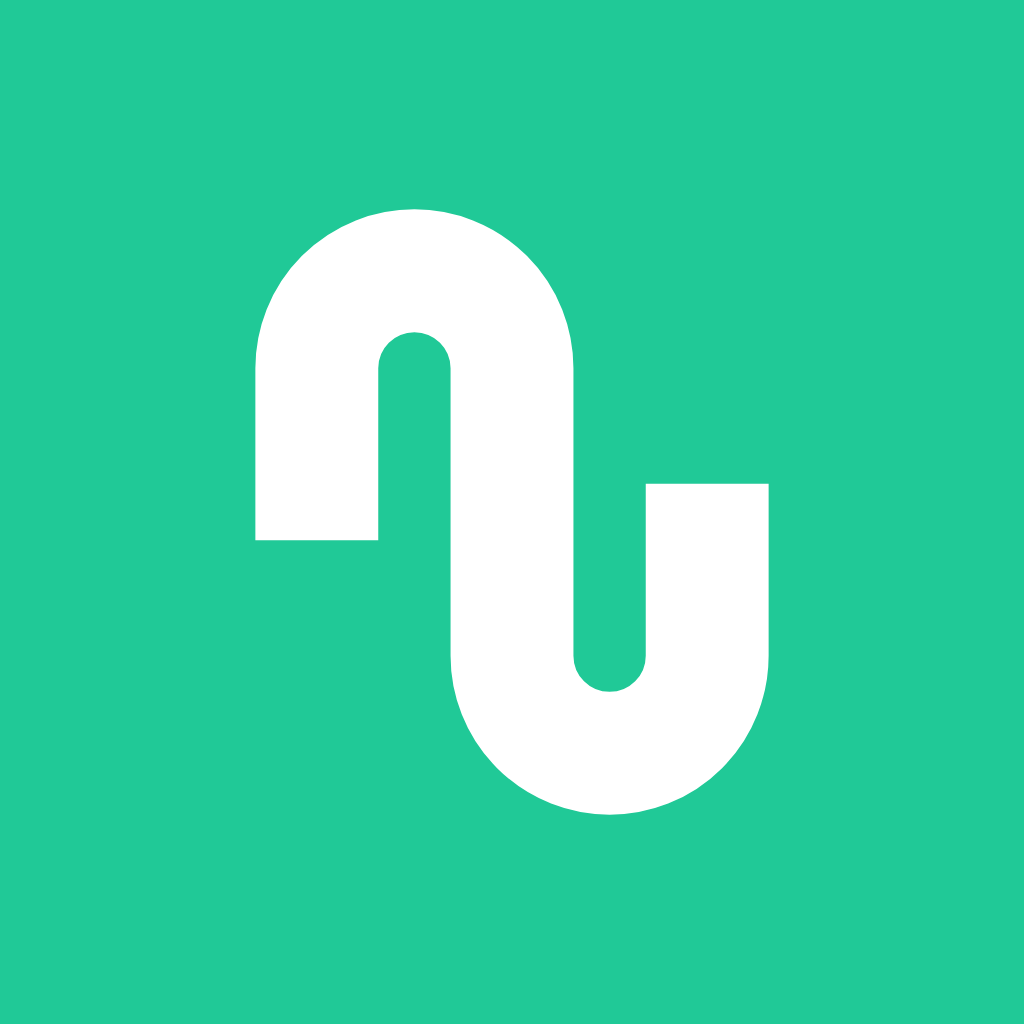
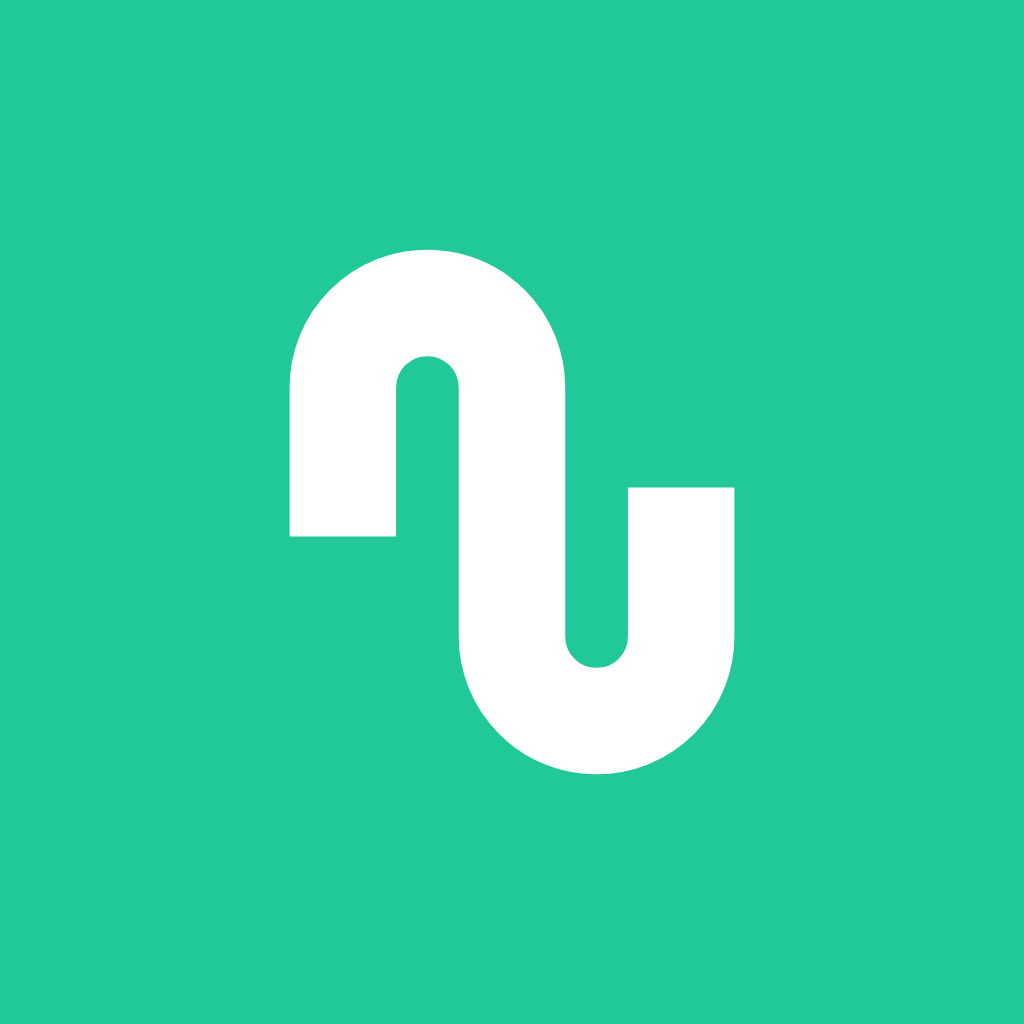
feat(web, mobile): a cleaner sign-in, and Google's button like "Sign in"
The sign-in drops "Your private Zankup instance", the "Private instance ·
one user" footer and, in the app, the panel text and the fingerprint
note. "Continue with Google" becomes the same button as "Sign in", with
Google's G in one colour (a thick ring and its bar, from packages/core)
and the label in white; on the web it no longer overflows the column.
The Android launcher mark is a little smaller.

Changed region(s): [[0.25, 0.1875, 0.75, 0.8125]]

diff --git a/apps/web/src/routes/SignIn.tsx b/apps/web/src/routes/SignIn.tsx
@@ -1,4 +1,4 @@
-import { meQuery, providersQuery, queryKeys, setupStatusQuery, type Me } from '@zankup/core';
+import { GOOGLE_G, meQuery, providersQuery, queryKeys, setupStatusQuery, type Me } from '@zankup/core';
 import { useQuery, useQueryClient } from '@tanstack/react-query';
 import { useState, type FormEvent } from 'react';
 import { Link, Navigate, useNavigate, useSearchParams } from 'react-router';
@@ -62,7 +62,6 @@ export function SignIn() {
               onSignedIn={signedIn}
             />
           )}
-          <div className="lfoot">{t('signIn.footer')}</div>
         </div>
       </section>
     </div>
@@ -230,23 +229,9 @@ function GoogleButton() {
       className="button block google"
       href={`/api/auth/google/start?mode=login&next=${encodeURIComponent(next)}`}
     >
-      <svg viewBox="0 0 48 48" width="18" height="18" aria-hidden="true">
-        <path
-          fill="#EA4335"
-          d="M24 9.5c3.54 0 6.71 1.22 9.21 3.6l6.85-6.85C35.9 2.38 30.47 0 24 0 14.62 0 6.51 5.38 2.56 13.22l7.98 6.19C12.43 13.72 17.74 9.5 24 9.5z"
-        />
-        <path
-          fill="#4285F4"
-          d="M46.98 24.55c0-1.57-.15-3.09-.38-4.55H24v9.02h12.94c-.58 2.96-2.26 5.48-4.78 7.18l7.73 6c4.51-4.18 7.09-10.36 7.09-17.65z"
-        />
-        <path
-          fill="#FBBC05"
-          d="M10.53 28.59c-.48-1.45-.76-2.99-.76-4.59s.27-3.14.76-4.59l-7.98-6.19C.92 16.46 0 20.12 0 24c0 3.88.92 7.54 2.56 10.78l7.97-6.19z"
-        />
-        <path
-          fill="#34A853"
-          d="M24 48c6.48 0 11.93-2.13 15.89-5.81l-7.73-6c-2.15 1.45-4.92 2.3-8.16 2.3-6.26 0-11.57-4.22-13.47-9.91l-7.98 6.19C6.51 42.62 14.62 48 24 48z"
-        />
+      <svg viewBox={`0 0 ${GOOGLE_G.size} ${GOOGLE_G.size}`} width="18" height="18" aria-hidden="true">
+        <path d={GOOGLE_G.ring.d} fill="none" stroke="currentColor" strokeWidth={GOOGLE_G.ring.strokeWidth} />
+        <path d={GOOGLE_G.bar.d} fill="currentColor" />
       </svg>
       {t('signIn.google')}
     </a>

diff --git a/apps/mobile/src/SignIn.tsx b/apps/mobile/src/SignIn.tsx
@@ -8,7 +8,7 @@ import { createApiClient } from '@zankup/core';
 import { useEffect, useState, type ReactNode } from 'react';
 import { KeyboardAvoidingView, Pressable, Text, View } from 'react-native';
 
-import { Icon } from './Icon';
+import { GoogleIcon, Icon } from './Icon';
 import { t } from './i18n';
 import {
   checkInstance,
@@ -102,7 +102,6 @@ export function SignIn({ onSignedIn }: { onSignedIn: (session: Session) => void 
         <View style={{ gap: 16, paddingTop: 24 }}>
           <Brand />
           {card}
-          <Muted style={{ textAlign: 'center' }}>{t('signIn.footer')}</Muted>
         </View>
       </Screen>
     </KeyboardAvoidingView>
@@ -117,7 +116,6 @@ function Brand() {
       <Text style={{ color: c.fg, fontSize: 24, fontWeight: '700', letterSpacing: -0.3 }}>
         {t('app.claim')}
       </Text>
-      <Muted>{t('signIn.panel')}</Muted>
     </View>
   );
 }
@@ -286,7 +284,13 @@ function PasswordStep({
         </Pressable>
       )}
       {googleClient && (
-        <Button disabled={busy !== null} onPress={() => void google()}>
+        <Button
+          primary
+          disabled={busy !== null}
+          onPress={() => void google()}
+          icon={<GoogleIcon color="#fff" />}
+          labelColor="#fff"
+        >
           {t('signIn.google')}
         </Button>
       )}
@@ -294,7 +298,6 @@ function PasswordStep({
         <Muted style={{ flex: 1 }}>{baseUrl.replace(/^https?:\/\//, '')}</Muted>
         <LinkButton onPress={onChangeInstance}>{t('mobile.changeInstance')}</LinkButton>
       </View>
-      <Muted>{t('mobile.fingerprintNote')}</Muted>
     </>
   );
 }

diff --git a/apps/mobile/src/Icon.tsx b/apps/mobile/src/Icon.tsx
@@ -1,5 +1,6 @@
 /** The PWA's interface icons (24×24 strokes), drawn with Skia. */
 import { Canvas, Path, Skia } from '@shopify/react-native-skia';
+import { GOOGLE_G } from '@zankup/core';
 import type { ColorValue } from 'react-native';
 
 const PATHS = {
@@ -38,6 +39,27 @@ export function Icon({ name, color, size = 24 }: { name: IconName; color: ColorV
         color={String(color)}
         transform={[{ scale: size / 24 }]}
       />
+    </Canvas>
+  );
+}
+
+// Google's G in one colour (packages/core), white on the "Continue with Google" button.
+const GOOGLE_RING = Skia.Path.MakeFromSVGString(GOOGLE_G.ring.d);
+const GOOGLE_BAR = Skia.Path.MakeFromSVGString(GOOGLE_G.bar.d);
+
+export function GoogleIcon({ color, size = 20 }: { color: ColorValue; size?: number }) {
+  if (!GOOGLE_RING || !GOOGLE_BAR) return null;
+  const transform = [{ scale: size / GOOGLE_G.size }];
+  return (
+    <Canvas style={{ width: size, height: size }}>
+      <Path
+        path={GOOGLE_RING}
+        style="stroke"
+        strokeWidth={GOOGLE_G.ring.strokeWidth}
+        color={String(color)}
+        transform={transform}
+      />
+      <Path path={GOOGLE_BAR} color={String(color)} transform={transform} />
     </Canvas>
   );
 }

diff --git a/apps/mobile/src/ui.tsx b/apps/mobile/src/ui.tsx
@@ -108,12 +108,18 @@ export function Button({
   primary,
   disabled,
   accessibilityLabel,
+  icon,
+  labelColor,
 }: {
   children: string;
   onPress: () => void;
   primary?: boolean;
   disabled?: boolean;
   accessibilityLabel?: string;
+  /** Drawn before the label (Google's G on "Continue with Google"). */
+  icon?: ReactNode;
+  /** The label's colour, when it is not the button's usual one (white on "Continue with Google"). */
+  labelColor?: string;
 }) {
   const c = useTheme();
   return (
@@ -132,7 +138,14 @@ export function Button({
         },
       ]}
     >
-      <Text style={{ color: primary ? onAccent(c) : c.fg, fontWeight: '600', fontSize: 15 }}>{children}</Text>
+      <View style={{ flexDirection: 'row', alignItems: 'center', gap: 10 }}>
+        {icon}
+        <Text
+          style={{ color: labelColor ?? (primary ? onAccent(c) : c.fg), fontWeight: '600', fontSize: 15 }}
+        >
+          {children}
+        </Text>
+      </View>
     </Pressable>
   );
 }

diff --git a/packages/core/src/brand/index.ts b/packages/core/src/brand/index.ts
@@ -5,3 +5,13 @@ export * from './wordmark';
 export const BRAND_FONT_FAMILY = "'Momo Trust Display', system-ui, sans-serif";
 export const BRAND_FONT_STYLESHEET =
   'https://fonts.googleapis.com/css2?family=Momo+Trust+Display&display=swap';
+
+/**
+ * Google's G in one colour, for "Continue with Google" on the accent (white, as other apps show it):
+ * a thick ring open at the top right and the bar, in a 48 × 48 box. `ring` is a stroke, `bar` a fill.
+ */
+export const GOOGLE_G = {
+  size: 48,
+  ring: { d: 'M37.02 13.07 A17 17 0 1 0 41 24', strokeWidth: 10 },
+  bar: { d: 'M24 19 H46 V29 H24 Z' },
+} as const;

diff --git a/apps/web/src/index.css b/apps/web/src/index.css
@@ -1986,11 +1986,22 @@ button:disabled {
   min-width: 0;
 }
 
-.lfoot {
-  margin-top: 26px;
-  font-size: 12px;
-  color: var(--muted);
-  text-align: center;
+/* "Continue with Google": the same button as "Sign in", with Google's G and the label in white. */
+a.button.google {
+  box-sizing: border-box;
+  display: flex;
+  justify-content: center;
+  align-items: center;
+  gap: 8px;
+  width: 100%;
+  margin-top: 8px;
+  padding: 12px;
+  font-size: 15px;
+  font-weight: 600;
+  border: 1px solid transparent;
+  border-radius: 10px;
+  background: var(--accent);
+  color: #fff;
 }
 
 .spin {

diff --git a/apps/web/src/routes/Recover.tsx b/apps/web/src/routes/Recover.tsx
@@ -21,10 +21,7 @@ function Frame({ children }: { children: ReactNode }) {
         </div>
       </section>
       <section className="lform">
-        <div className="lcard">
-          {children}
-          <div className="lfoot">{t('signIn.footer')}</div>
-        </div>
+        <div className="lcard">{children}</div>
       </section>
     </div>
   );

diff --git a/apps/web/src/routes/Setup.tsx b/apps/web/src/routes/Setup.tsx
@@ -70,10 +70,7 @@ export function Setup() {
         </div>
       </section>
       <section className="lform">
-        <div className="lcard">
-          {card}
-          <div className="lfoot">{t('signIn.footer')}</div>
-        </div>
+        <div className="lcard">{card}</div>
       </section>
     </div>
   );

diff --git a/scripts/brand_icons.py b/scripts/brand_icons.py
@@ -101,14 +101,14 @@ def main() -> None:
         png(icon(180, color=DARK, share=0.6, background=GREEN), 180, folder / "apple-touch-icon-180.png")
 
     # The Android app: the white mark on the green; the adaptive layers keep it in the 66 % safe zone.
-    png(icon(1024, color=WHITE, share=0.6, background=GREEN), 1024, mobile / "icon.png")
+    png(icon(1024, color=WHITE, share=0.52, background=GREEN), 1024, mobile / "icon.png")
     plain = (
         '<svg xmlns="http://www.w3.org/2000/svg" width="512" height="512">'
         f'<rect width="512" height="512" fill="{GREEN}"/></svg>'
     )
     png(plain, 512, mobile / "android-icon-background.png")
-    png(icon(512, color=WHITE, share=0.46, background=None), 512, mobile / "android-icon-foreground.png")
-    png(icon(432, color=WHITE, share=0.46, background=None), 432, mobile / "android-icon-monochrome.png")
+    png(icon(512, color=WHITE, share=0.4, background=None), 512, mobile / "android-icon-foreground.png")
+    png(icon(432, color=WHITE, share=0.4, background=None), 432, mobile / "android-icon-monochrome.png")
     png(icon(1024, color=WHITE, share=0.56, background=None), 1024, mobile / "splash-icon.png")
 
 
